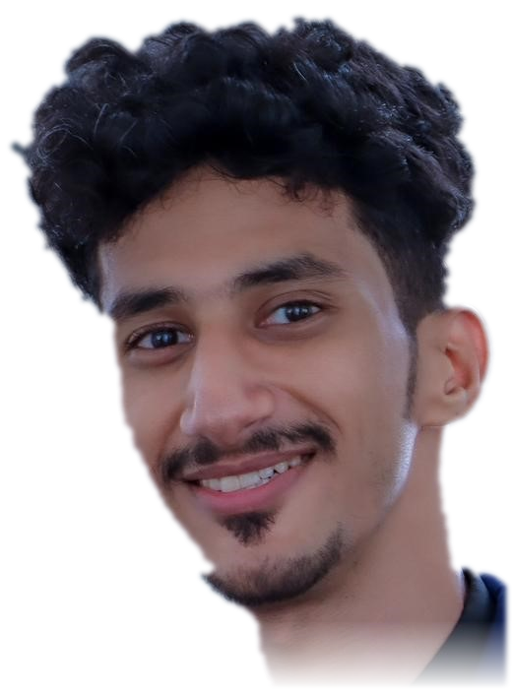
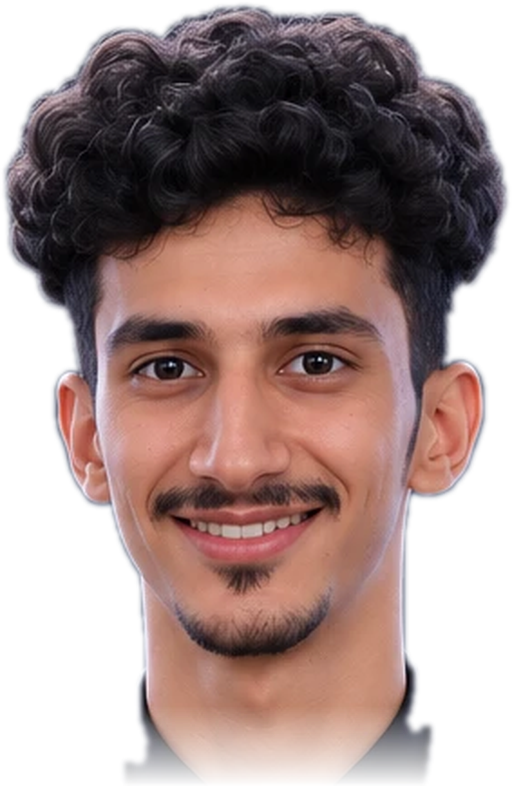
Use frontal portrait for the 3D character and add full-page Drobi screenshots
- Character face now uses a front-facing portrait cut out from its background
- Drobi gets full-page home and captain screenshots so its laptop screen scrolls
- Laptop mockup prefers sharper screenshots when picking the one to scroll

Claude-Session: https://claude.ai/code/session_01VT9EHj3STqP6KxooyCfPCu

diff --git a/src/components/ProjectDetails.jsx b/src/components/ProjectDetails.jsx
@@ -49,12 +49,14 @@ function LaptopMockup({ images, host }) {
     };
   }, [images]);
 
-  // نتجاهل لقطات الجوال الضيقة
-  const desktop = ratios ? ratios.filter((r) => r.w >= 600) : [];
+  // نتجاهل لقطات الجوال الضيقة جداً (عرضها أقل من 280 بكسل)
+  const desktop = ratios ? ratios.filter((r) => r.w >= 280) : [];
   const desktopImages = desktop.length ? desktop.map((r) => r.src) : images;
   let tallIndex = 0;
   let best = 0;
-  desktop.forEach((r) => {
+  // نفضّل اللقطات الأوضح (عرض 400 بكسل فأكثر) عند اختيار اللقطة الطويلة
+  const sharp = desktop.filter((r) => r.w >= 400);
+  (sharp.length ? sharp : desktop).forEach((r) => {
     const ratio = r.h / r.w;
     if (ratio > best) {
       best = ratio;

diff --git a/src/components/three/HeroScene.jsx b/src/components/three/HeroScene.jsx
@@ -123,10 +123,10 @@ function Head({ headRef }) {
   face.anisotropy = 8;
   const R = 0.37;
   const ARC = 1.8;
-  const height = (R * ARC) / (512 / 694);
+  const height = (R * ARC) / (512 / 786);
   return (
     <group ref={headRef} position={[0, 1.93, -0.2]}>
-      <group position={[0, height / 2 - 0.06, 0]}>
+      <group position={[0, height / 2 - 0.19, 0]}>
         {/* الوجه من الصورة */}
         <mesh position={[0, 0, -R + 0.14]}>
           <cylinderGeometry args={[R, R, height, 40, 1, true, -ARC / 2, ARC]} />

diff --git a/src/components/MyProjectsData.js b/src/components/MyProjectsData.js
@@ -7,6 +7,8 @@ export const projects = [
     "demo": "https://www.drobi.sa/",
     "image": "/Drobi.png",
     "screenshots": [
+      "/screenshots/drobi-full-home.jpg",
+      "/screenshots/drobi-full-captain.jpg",
       "/screenshots/drobi-4.png",
       "/screenshots/drobi-3.png"
     ],
